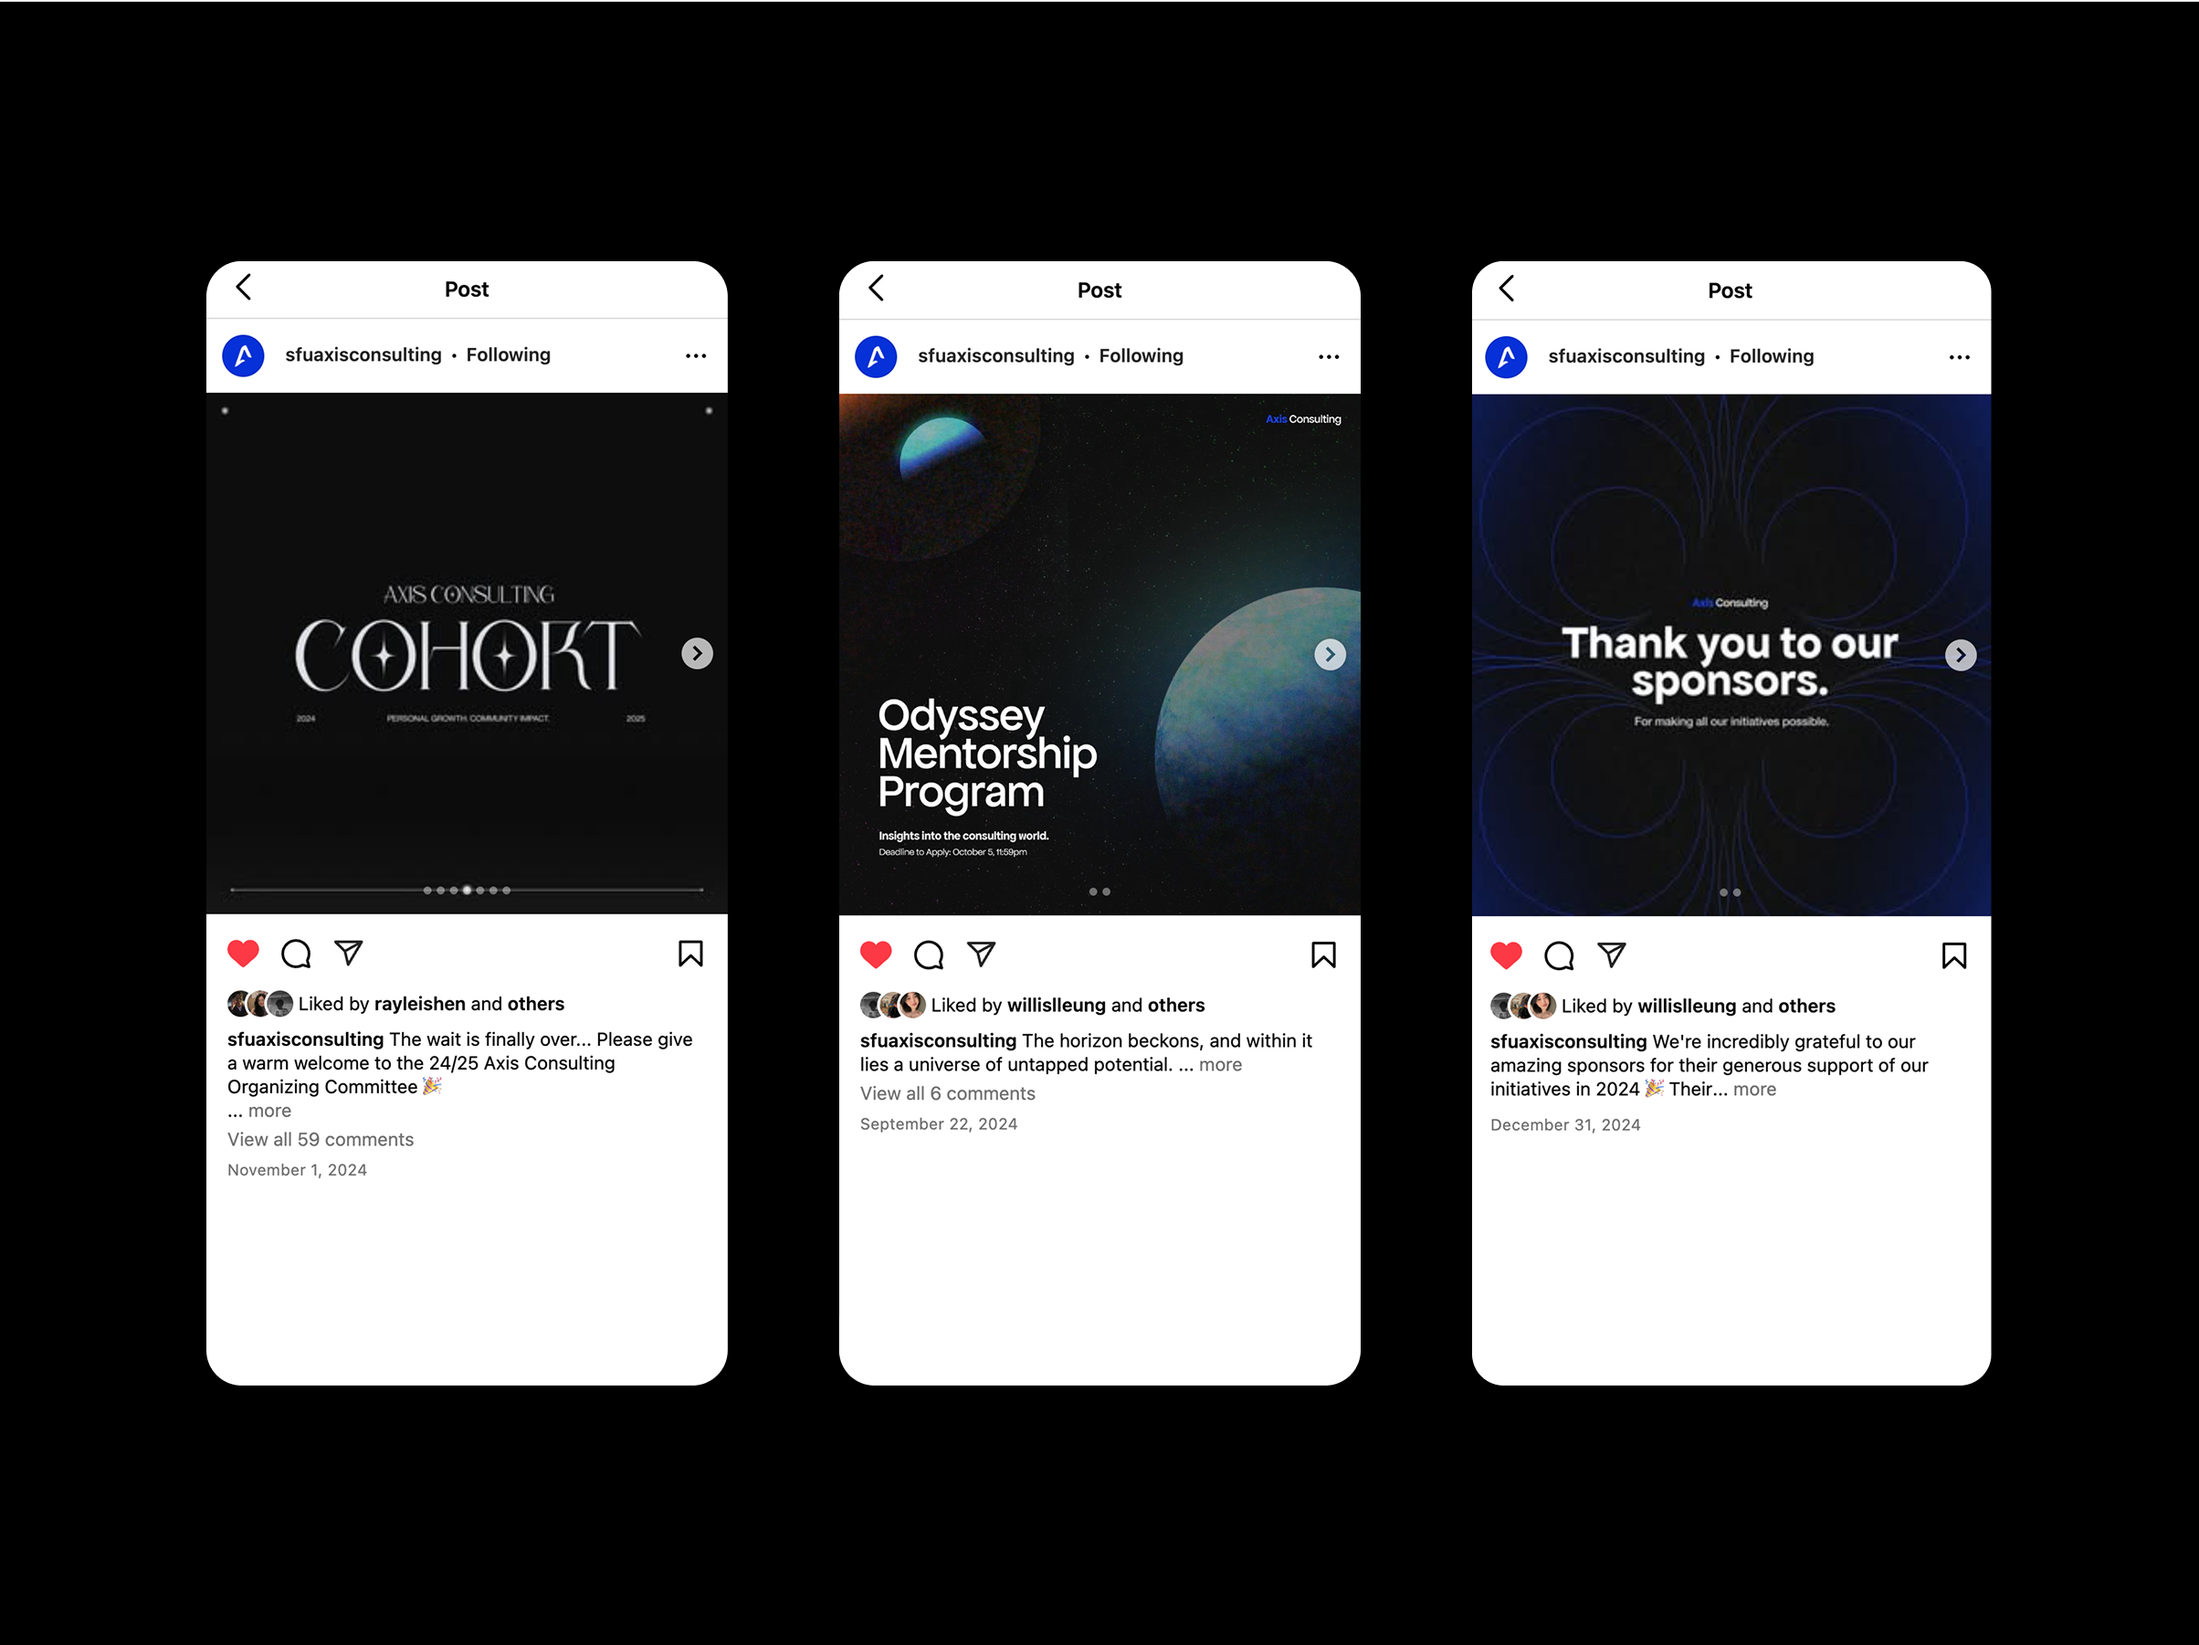
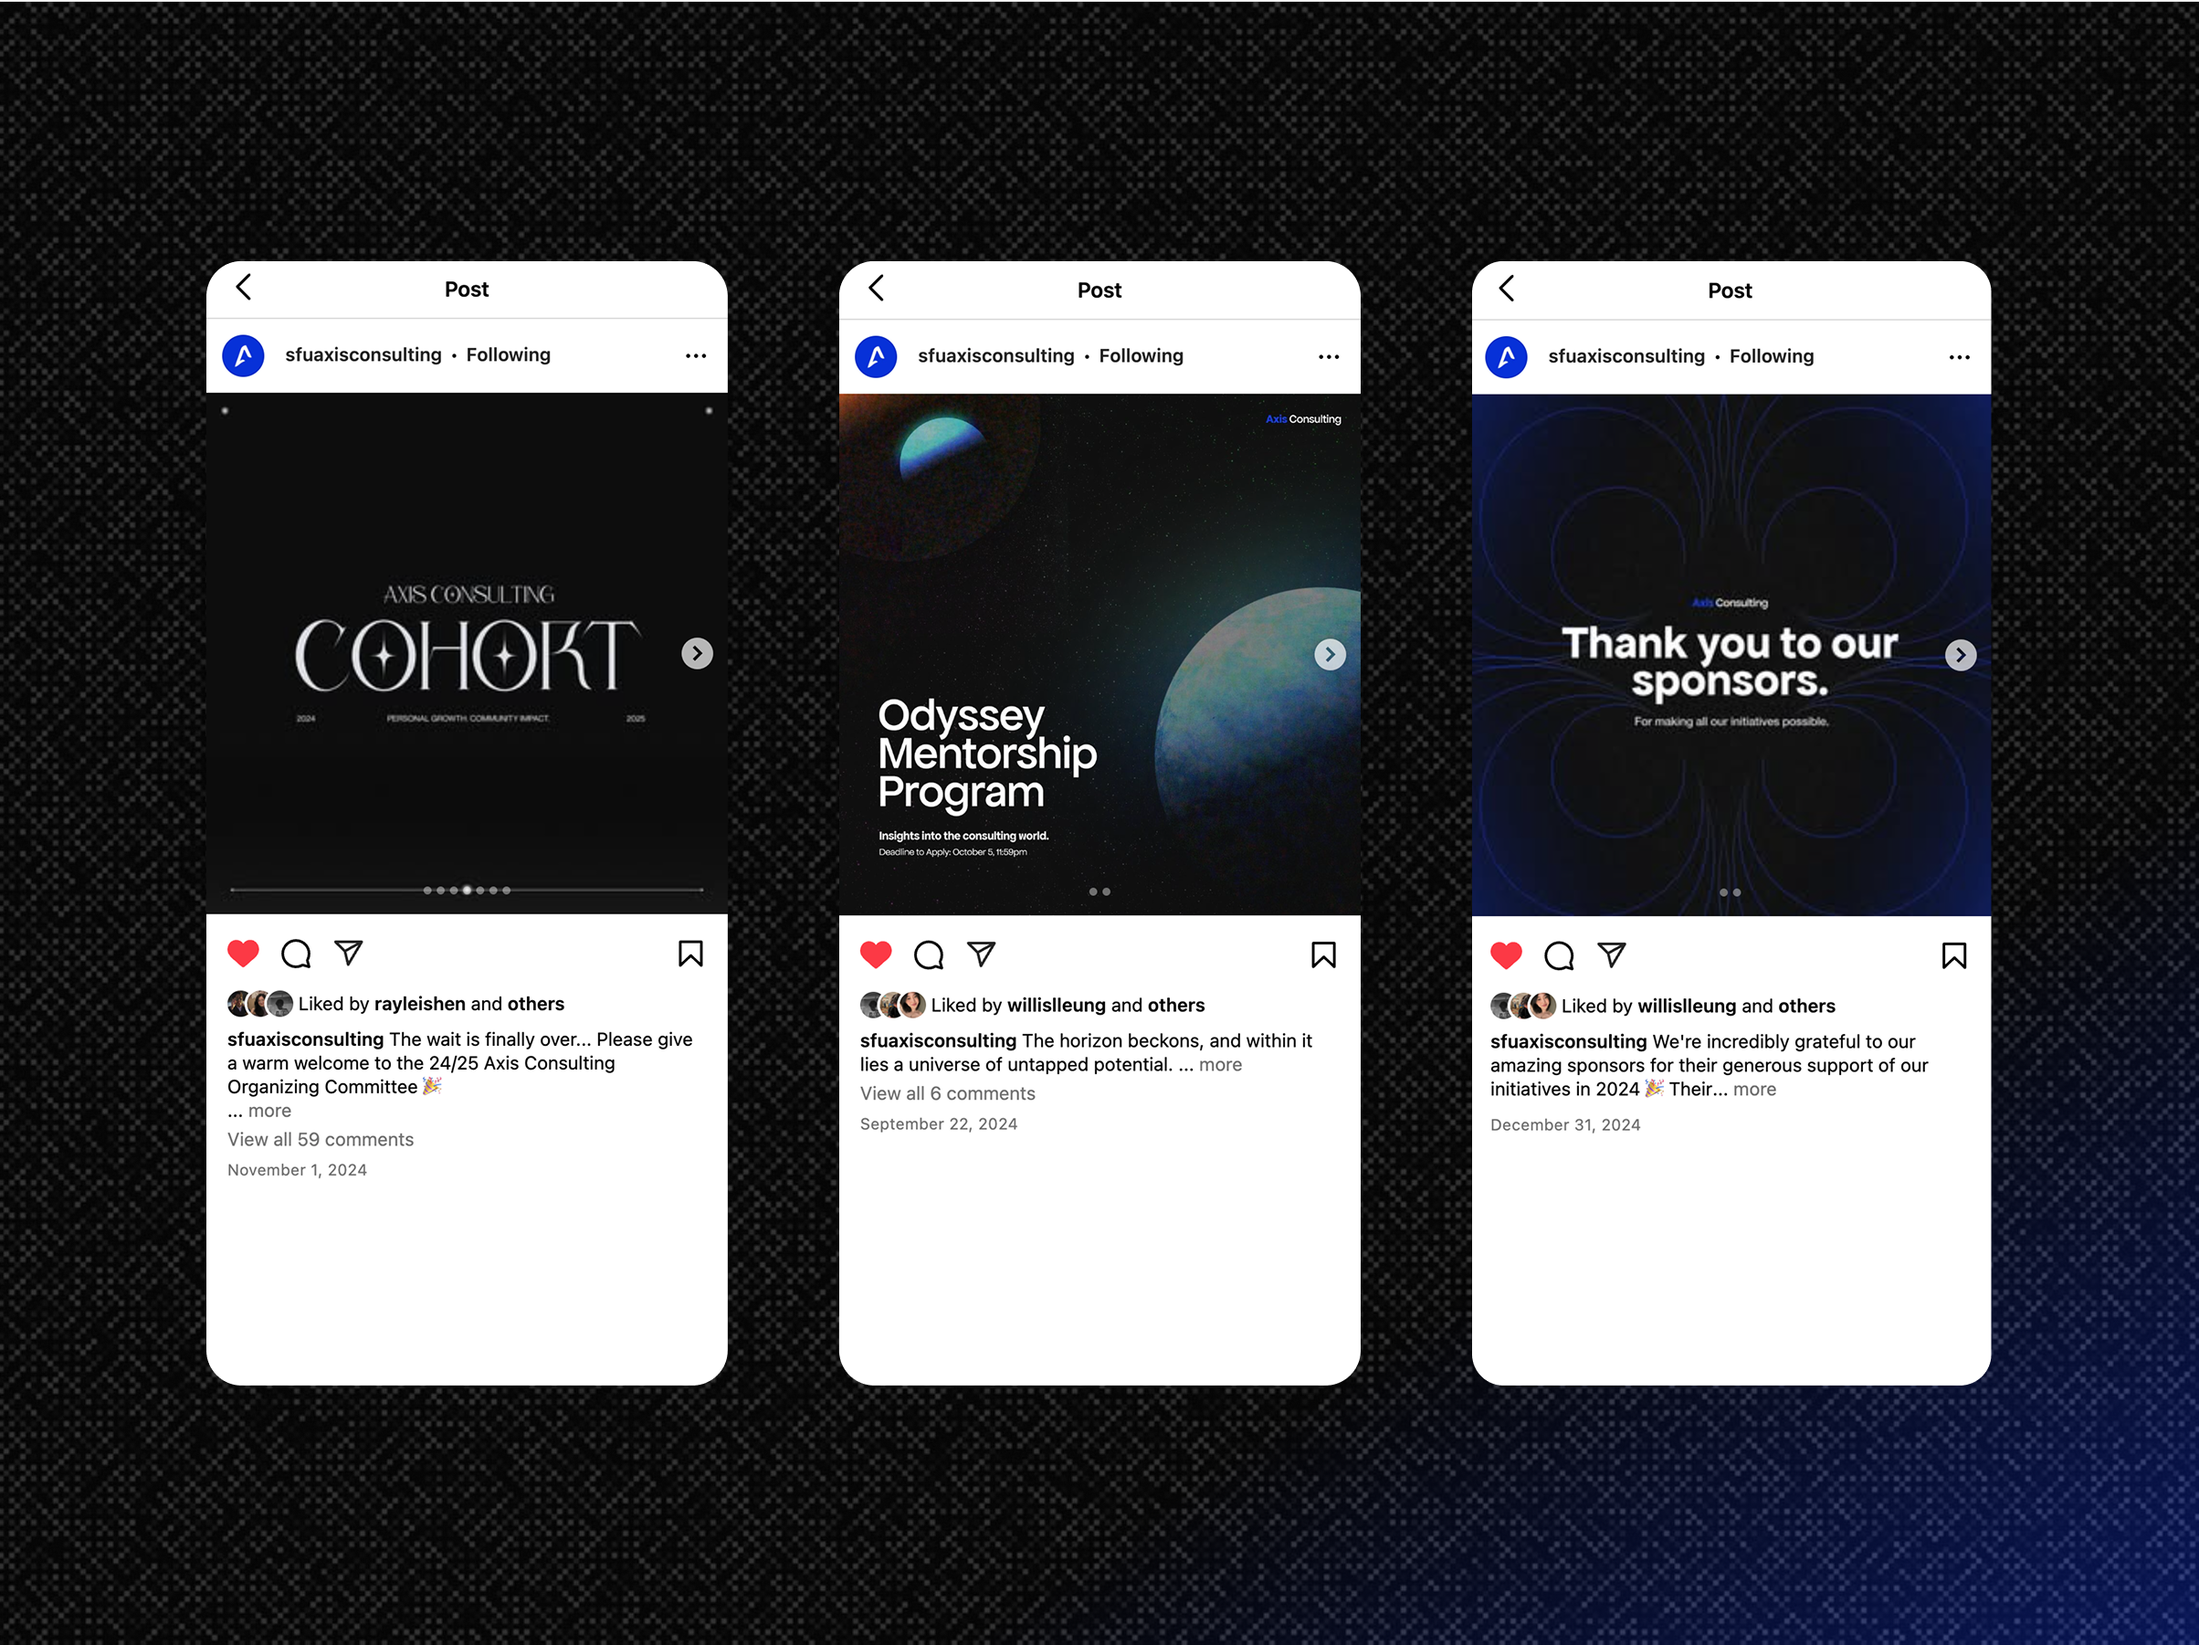
updated some copy writing on the axis consulting case

Changed region(s): [[0.0, 0.0, 1.0, 1.0]]

diff --git a/components/AxisCase.js b/components/AxisCase.js
@@ -154,7 +154,7 @@ function AxisCase({ stylePlaceholder, caseOpen, styles }) {
             id="AxisMarketingCampaign"
           >
             <TextBox
-              header="Pillar 1"
+              header="Rebuilding the Past"
               body="Dominating our media presence"
               color="black"
             ></TextBox>
@@ -186,7 +186,7 @@ function AxisCase({ stylePlaceholder, caseOpen, styles }) {
 
           <section className="containerBody xl:mx-gutter-xl lg:mx-gutter-lg md:mx-gutter-md mx-gutter-sm mt-[5rem]">
             <TextBox
-              header="Pillar 2"
+              header="Inspiring the Present"
               body="Reimaging Axis across a dynamic plane"
               color="black"
               id="AxisMotionReel"
@@ -220,7 +220,7 @@ function AxisCase({ stylePlaceholder, caseOpen, styles }) {
             id="AxisWebsite"
           >
             <TextBox
-              header="pillar 3"
+              header="Embracing the Future"
               body="Establishing a legacy on the web"
               color="black"
             />
@@ -259,7 +259,7 @@ function AxisCase({ stylePlaceholder, caseOpen, styles }) {
             id="AxisBrand"
           >
             <TextBox
-              header="Pillar 2"
+              header="The Art Direction"
               body="Building a Brand to Inspire"
               color="black"
             />
